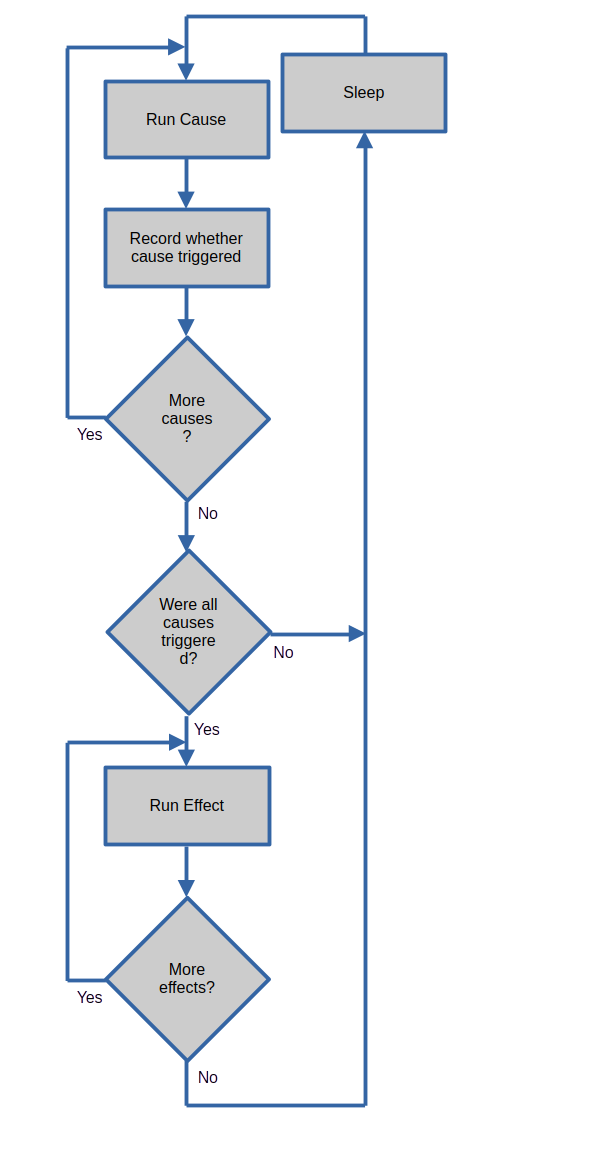
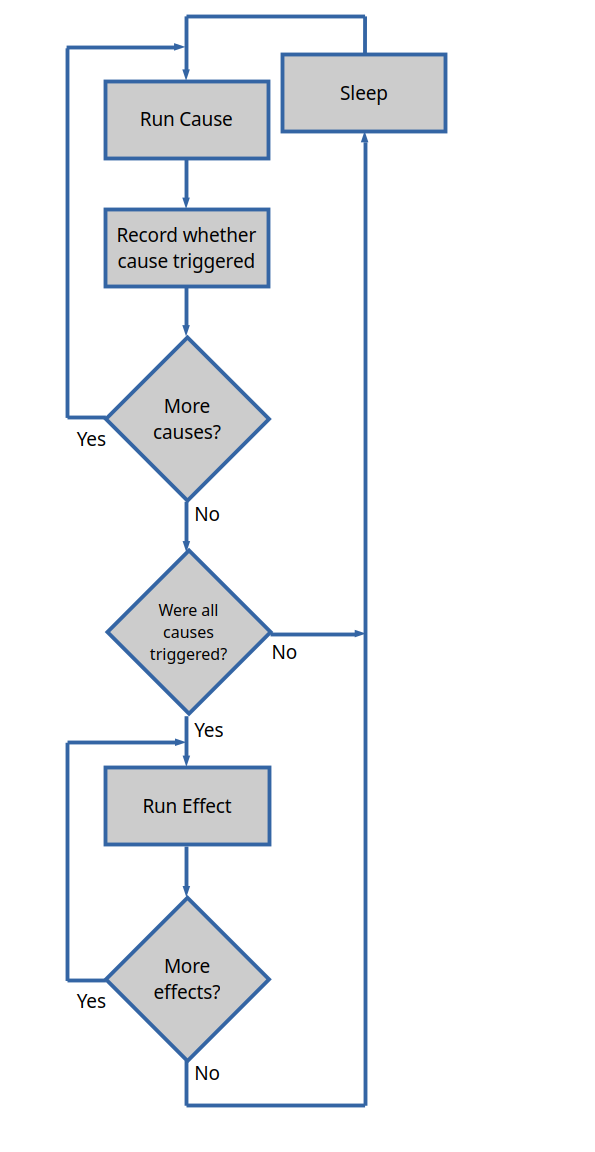
adaptived: README: Update flow chart and examples
Add a few real-world examples.  Update the flow chart to fix rendering
issues.

diff --git a/adaptived/README.md b/adaptived/README.md
@@ -1,11 +1,14 @@
-Adaptived is a simple cause-and-effect daemon for the Linux operating system.  It
-is designed to allow a user to construct a series of rules to automate tasks.
+adaptived is a simple yet extremely powerful and flexible cause-and-effect
+daemon.  Users can use adaptived to construct a series of custom rules to
+automate tasks, manage resources, kill processes, etc.  When used in
+conjunction with cgroups, adaptived can adjust system performance and settings
+in realtime to adapt to a changing workload.
 
 Adaptived has several built-in causes and effects.  When using only the built-in
 causes and effects, adaptived can be invoked directly by calling the adaptived
-daemon.  See the [Simple Use Case Section](https://linux-git.oraclecorp.com/thromatk/adaptived/-/tree/main?ref_type=heads#simple-use-case-built-in-causes-and-effects).
+daemon.  See the [Getting Started Section](https://github.com/oracle/adaptivemm/tree/readme/adaptived#getting-started).
 To use custom cause and effects, a user must use the adaptived library
-and its C APIs.  See the [Advanced Use Case Section](https://linux-git.oraclecorp.com/thromatk/adaptived/-/tree/main?ref_type=heads#advanced-use-case-custom-causes-andor-effects).
+and its C APIs.  See the [Advanced Use Case Section](https://github.com/oracle/adaptivemm/tree/readme/adaptived#advanced-use-case---custom-causes-andor-effects).
 If there is sufficient demand, we may consider adding Python
 bindings.
 
@@ -24,8 +27,8 @@ Adaptived uses the following terminology:
   Baring an error, each effect will run when the associated causes are
   triggered.
 * Rule - A rule is one or more causes combined with one or more effects. When
-  all of the causes in the rule are triggered, then the effects will be
-  executed.  A adaptived configuration file can contain multiple rules.
+  all of the causes in the rule are triggered, then the effect(s) will be
+  executed.  An adaptived configuration file can contain multiple rules.
 
 ## Architecture
 
@@ -33,7 +36,7 @@ Adaptived's main processing loop operates as shown in the flow chart below:
 
 ![Adaptived flow chart](./doc/examples/flow-chart.png)
 
-## Simple Use Case - Built-In Causes and Effects
+## Getting Started
 
 If a user only wants to utilize the built-in causes and effects in adaptived,
 then they can invoke the daemon directly.
@@ -48,12 +51,33 @@ The above command will start the adaptived daemon.  It will employ the rules
 outlined in the provided configuration file, and the main adaptived loop will run
 every 3 seconds.
 
-Given the rule in this example, adaptived will print "It's 5 o'clock here :)" when
+Given the rule in this example, adaptived will print `It's 5 o'clock here :)` when
 the time is after 5 pm and it's a weekday.  It will print that message until
-midnight, and then the time_of_day cause will fail.  Since no maximum number of
-loops was provided in this example, adaptived will continue running until it is
-killed.  Once it's after 5 pm and a weekday, then the print effect will again
+midnight, and then the `time_of_day` cause will no longer trigger.  Since no maximum
+number of loops was provided in this example, adaptived will continue running until
+it is killed.  Once it's after 5 pm and a weekday, then the print effect will again
 run and output the aforementioned message.
+
+## Real-World Use Cases
+
+* Given two cgroups, high-priority and low-priority, kill processes in the
+  low-priority cgroup when there is PSI pressure on the high-priority cgroup
+  [[1]](./doc/examples/kill-lowpriority.json)
+* Given two cgroups, high-priority and low-priority, reduce the cpu.weight
+  of the low-priority cgroup when there is PSI pressure on the high-priority
+  cgroup.  Conversely, when there is very little pressure on the high-priority
+  cgroup, increase the cpu.weight of the low-priority cgroup
+  [[2]](./doc/examples/adjust-weight.json)
+* Adjust a cgroup's soft memory limit (memory.high) to determine the minimum
+  memory requirements of an application.  This value could be used to
+  populate that application's memory.low cgroup setting
+  [[3]](./doc/examples/determine-memorylow.json)
+* When an anomalous event occurs, save critical logs off for later offline
+  evaluation and troubleshooting
+  [[4]](./doc/examples/topmem-savelogs.json)
+* When the system's MemFree field falls below a threshold, send a signal to a
+  monitoring process
+  [[5]](./doc/examples/lowmemfree-sendsignal.json)
 
 ## Advanced Use Case - Custom Causes and/or Effects
 
@@ -67,6 +91,94 @@ To utilize custom causes and/or effects, the user must employ the adaptived
 library and its C APIs.  The automated test,
 [003-register_plugin_cause.c](./tests/ftests/003-register_plugin_cause.c),
 is a good starting point.
+
+## Schema
+
+An example adaptived JSON configuration file is attached below.  Note that the
+`comment` fields are for illustrative purposes and are not required.  (In fact,
+adaptived will ignore fields that aren't part of its schema.  As outlined
+below, these ignored fields could be a way to document the configuration
+file.)
+
+```
+{
+    "comment1": "adaptived configuration files consist of one or more rules.",
+    "comment2": "The rules are processed independent of each other,",
+    "comment3": "therefore ensure that one rule doesn't adversely affect another rule.",
+    "rules": [
+        {
+            "name": "We recommend a short but descriptive rule name",
+            "comment1": "The rule name must be unique as the name is used as the built-in identifier",
+            "comment2": "Also, the rule name is displayed in debug logs, so a short-but-descriptive name is very helpful in debugging",
+            "description": "Optional but helpful for further describing the rule.",
+
+            "causes comment1": "A rule consists of one of more causes.",
+            "causes comment2": "Every cause is run every time the main adaptived processing loop runs.",
+            "causes comment3": "Every cause must trigger for the effect(s) to be run.",
+            "currently-supported causes": "https://github.com/oracle/adaptivemm/blob/master/adaptived/doc/internal/list-of-built-in-causes.md",
+            "causes": [
+                {
+                    "name": "cause 1 name",
+                    "args": {
+                        "comment1": "Each cause has its own set of args applicable to that cause.",
+                        "comment2": "See the list of built-in causes for the args supported by each cause"
+                    }
+                },
+                {
+                    "name": "cause 2 name",
+                    "comment1": "Even if cause 1 does not trigger, this cause will be evaluated every time the adaptived processing loop runs.",
+                    "comment2": "This is critical so that averages, trends, etc. can be properly computed.",
+                    "args": {}
+                }
+            ],
+
+            "effects comment1": "A rule consists of one or more effects.",
+            "effects comment2": "The effect(s) will only be run if every cause in this rule triggers.",
+            "currently-supported effects": "https://github.com/oracle/adaptivemm/blob/master/adaptived/doc/internal/list-of-built-in-effects.md",
+            "effects": [
+                {
+                    "name": "effect 1 name",
+                    "args": {
+                        "comment1": "Just like with the causes, each effect has its own set of args applicable to that effect.",
+                        "comment2": "See the list of built-in effects for the args supported by each effect."
+                    }
+                },
+                {
+                    "name": "effect 2 name",
+                    "args": {}
+                }
+            ]
+        },
+
+        {
+            "name": "When MemFree falls below 2 GB, send SIGALRM (signal 14) to the monitoring program",
+            "causes": [
+                {
+                    "name": "meminfo",
+                    "args": {
+                        "field": "MemFree",
+                        "threshold": "2G",
+                        "operator": "lessthan"
+                    }
+                }
+            ],
+            "effects": [
+                {
+                    "name": "signal",
+                    "args": {
+                        "proc_names": [
+                            {
+                                "name": "monitor_program"
+                            }
+                        ],
+                        "signal": 14
+                    }
+                }
+            ]
+        }
+    ]
+}
+```
 
 ## Additional Resources
 
@@ -111,7 +223,7 @@ applications:
 
 However, if you are building the library from sources retrieved from the source
 repository you may need to run the autogen.sh script before running configure.
-In both cases, running "./configure -h" will display a list of build-time
+In both cases, running `./configure -h` will display a list of build-time
 configuration options.
 
 ## Testing the Library
